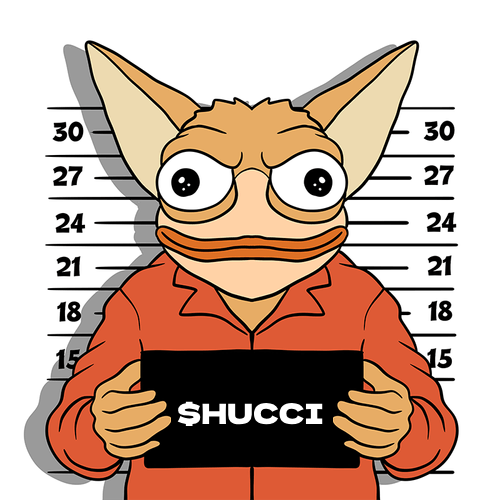
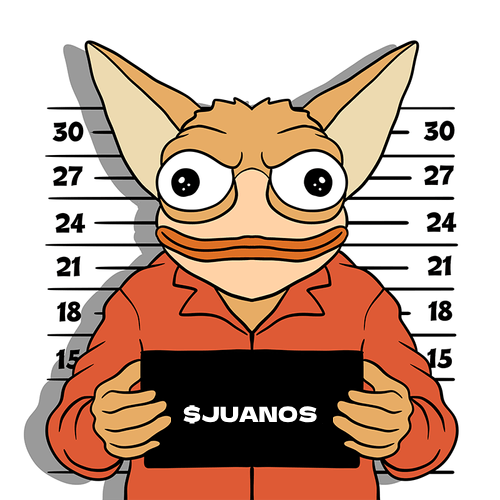
1

Changed region(s): [[0.36, 0.78, 0.66, 0.87]]

diff --git a/index.html b/index.html
@@ -2,9 +2,9 @@
 <html data-wf-page="6694e6c6ffe7ec007a5fe0f6" data-wf-site="6694e6c6ffe7ec007a5fe0e5">
 <head>
   <meta charset="utf-8">
-  <title>HUCCI</title>
+  <title>JUANOS</title>
   <meta content="width=device-width, initial-scale=1" name="viewport">
-  <meta content="HUCCI" name="$HUCCI">
+  <meta content="JUANOS" name="$JUANOS">
   <link href="css/normalize.css" rel="stylesheet" type="text/css">
   <link href="css/fenn.css" rel="stylesheet" type="text/css">
   <link href="css/fennsol.css" rel="stylesheet" type="text/css">
@@ -20,7 +20,7 @@
   <source src="music.mp3" type="audio/mpeg">
 </audio>
   <div class="section_welcome">
-    <div data-w-id="d09afd53-cc98-39b9-e454-fb562317df2b" style="opacity:0" class="title">$HUCCI</div>
+    <div data-w-id="d09afd53-cc98-39b9-e454-fb562317df2b" style="opacity:0" class="title">$JUANOS</div>
     <a data-w-id="685761e2-9dc5-6162-ecdc-14ebf643b7cd" style="opacity:0" href="#" class="continue w-button">CONTINUE</a>
   </div>
   <div class="w-embed">
@@ -32,21 +32,21 @@ html, body {
   </div>
   <div class="header">
     <div class="menu">
-      <a href="https://pump.fun/7D5g6LnoYRQyVCYaaBDYeJZ9vgaMR78Rw1yGz8nsump" class="button_buy w-button">BUY $HUCCI</a>
+      <a href="https://pump.fun/_TBA" class="button_buy w-button">BUY $JUANOS</a>
     </div>
     <div class="menu_right">
       <div class="menu_buttons">
         <a href="#story" class="menu_link w-button">STORY</a>
         <a href="#tokenomics" class="menu_link w-button">TOKENOMICS</a>
         <a href="#join" class="menu_link w-button">JOIN</a>
-        <a href="https://jup.ag/swap/SOL-7D5g6LnoYRQyVCYaaBDYeJZ9vgaMR78Rw1yGz8nsump" class="menu_link w-button">JUPITER</a>
+        <a href="https://jup.ag/swap/SOL-_TBA" class="menu_link w-button">JUPITER</a>
       </div>
-      <a href="https://t.me/huccisolana" class="tg w-button"></a>
-      <a href="https://x.com/huccisolana" class="x w-button"></a>
+      <a href="https://t.me/juanoscoin" class="tg w-button"></a>
+      <a href="https://x.com/juanoscoin" class="x w-button"></a>
     </div>
   </div>
   <div class="wrapper">
-    <div class="section_hero"> <img src="./images/cloud_hero_blue.svg" loading="lazy" alt="" class="clouds_hero_blue"><img src="./images/clouds_hero_white.svg" loading="lazy" style="-webkit-transform:translate3d(-89vw, 0, 0) scale3d(1, 1, 1) rotateX(0) rotateY(0) rotateZ(0) skew(0, 0);-moz-transform:translate3d(-89vw, 0, 0) scale3d(1, 1, 1) rotateX(0) rotateY(0) rotateZ(0) skew(0, 0);-ms-transform:translate3d(-89vw, 0, 0) scale3d(1, 1, 1) rotateX(0) rotateY(0) rotateZ(0) skew(0, 0);transform:translate3d(-89vw, 0, 0) scale3d(1, 1, 1) rotateX(0) rotateY(0) rotateZ(0) skew(0, 0)" data-w-id="59f95f3e-db18-afbe-428f-cf73599fe10e" alt="" class="clouds_hero_white">   <div style="" class="logo-title">HUCCI</div>                   <img src="./images/palm.svg" loading="lazy" style="-webkit-transform:translate3d(-33vw, 0, 0) scale3d(1, 1, 1) rotateX(0) rotateY(0) rotateZ(0) skew(0, 0);-moz-transform:translate3d(-33vw, 0, 0) scale3d(1, 1, 1) rotateX(0) rotateY(0) rotateZ(0) skew(0, 0);-ms-transform:translate3d(-33vw, 0, 0) scale3d(1, 1, 1) rotateX(0) rotateY(0) rotateZ(0) skew(0, 0);transform:translate3d(-33vw, 0, 0) scale3d(1, 1, 1) rotateX(0) rotateY(0) rotateZ(0) skew(0, 0)" data-w-id="b00e3dc6-1b1d-6a6d-198b-9bd509bbb92a" alt="" class="palm_hero">
+    <div class="section_hero"> <img src="./images/cloud_hero_blue.svg" loading="lazy" alt="" class="clouds_hero_blue"><img src="./images/clouds_hero_white.svg" loading="lazy" style="-webkit-transform:translate3d(-89vw, 0, 0) scale3d(1, 1, 1) rotateX(0) rotateY(0) rotateZ(0) skew(0, 0);-moz-transform:translate3d(-89vw, 0, 0) scale3d(1, 1, 1) rotateX(0) rotateY(0) rotateZ(0) skew(0, 0);-ms-transform:translate3d(-89vw, 0, 0) scale3d(1, 1, 1) rotateX(0) rotateY(0) rotateZ(0) skew(0, 0);transform:translate3d(-89vw, 0, 0) scale3d(1, 1, 1) rotateX(0) rotateY(0) rotateZ(0) skew(0, 0)" data-w-id="59f95f3e-db18-afbe-428f-cf73599fe10e" alt="" class="clouds_hero_white">   <div style="" class="logo-title">JUANOS</div>                   <img src="./images/palm.svg" loading="lazy" style="-webkit-transform:translate3d(-33vw, 0, 0) scale3d(1, 1, 1) rotateX(0) rotateY(0) rotateZ(0) skew(0, 0);-moz-transform:translate3d(-33vw, 0, 0) scale3d(1, 1, 1) rotateX(0) rotateY(0) rotateZ(0) skew(0, 0);-ms-transform:translate3d(-33vw, 0, 0) scale3d(1, 1, 1) rotateX(0) rotateY(0) rotateZ(0) skew(0, 0);transform:translate3d(-33vw, 0, 0) scale3d(1, 1, 1) rotateX(0) rotateY(0) rotateZ(0) skew(0, 0)" data-w-id="b00e3dc6-1b1d-6a6d-198b-9bd509bbb92a" alt="" class="palm_hero">
       <div data-w-id="4e548cfb-595a-bee4-878a-53ce60c61281" style="-webkit-transform:translate3d(-100vw, 0, 0) scale3d(1, 1, 1) rotateX(0) rotateY(0) rotateZ(0) skew(0, 0);-moz-transform:translate3d(-100vw, 0, 0) scale3d(1, 1, 1) rotateX(0) rotateY(0) rotateZ(0) skew(0, 0);-ms-transform:translate3d(-100vw, 0, 0) scale3d(1, 1, 1) rotateX(0) rotateY(0) rotateZ(0) skew(0, 0);transform:translate3d(-100vw, 0, 0) scale3d(1, 1, 1) rotateX(0) rotateY(0) rotateZ(0) skew(0, 0)" class="hero_ground">
         <div class="ground_hider"></div>
         <div class="h_ground">
@@ -88,11 +88,11 @@ html, body {
         <div data-w-id="93d8973c-4341-aee1-62be-d0794ab1f487" style="opacity:1" class="flash_right"></div>
       </div>
       <div class="h1">YOU GET<br>3 LIVES</div>
-      <div class="h2">HUCCI TOKENOMICS EXPOSED!</div><img src="https://hucci.wtf/images/jail_chara-p-500.png" loading="lazy" sizes="(max-width: 479px) 100vw, (max-width: 767px) 83vw, 500px" srcset="./images/jail_chara-p-500.png 500w, https://hucci.wtf/images/jail_chara-p-500.png 800w" alt="" class="chara_jail">
+      <div class="h2">JUANOS TOKENOMICS EXPOSED!</div><img src="https://juanos.wtf/images/jail_chara-p-500.png" loading="lazy" sizes="(max-width: 479px) 100vw, (max-width: 767px) 83vw, 500px" srcset="./images/jail_chara-p-500.png 500w, https://juanos.wtf/images/jail_chara-p-500.png 800w" alt="" class="chara_jail">
       <div class="block_tokenomics">
         <div class="tokenomics_in">
           <div class="tokenomics_details">
-            <div class="tokenomics_title">TOTAL SUPPLY: 1 BILLION $HUCCI</div>
+            <div class="tokenomics_title">TOTAL SUPPLY: 1 BILLION $JUANOS</div>
           </div>
           <div class="tokenomics_details">
             <div class="tokenomics_title">MINT REVOKED</div>
@@ -104,35 +104,35 @@ html, body {
             <div class="tokenomics_title">tax 0%</div>
           </div>
           <div class="tokenomics_details">
-            <div class="ca">7D5g6LnoYRQyVCYaaBDYeJZ9vgaMR78Rw1yGz8nsump</div>
+            <div class="ca">_TBA</div>
           </div>
         </div>
       </div>
     </div>
     <div class="transition_05"></div>
-    <div class="scene_trader"><img src="https://hucci.wtf/images/trader_chara-p-500.png" loading="lazy" data-w-id="60299c3c-3803-76a7-14ad-b3bd10fb2650" sizes="(max-width: 479px) 95vw, (max-width: 767px) 74vw, 441.2375183105469px" alt="" srcset="https://hucci.wtf/images/trader_chara-p-500.png 500w, https://hucci.wtf/images/trader_chara-p-500.png 796w" class="chara_trader">
+    <div class="scene_trader"><img src="https://juanos.wtf/images/trader_chara-p-500.png" loading="lazy" data-w-id="60299c3c-3803-76a7-14ad-b3bd10fb2650" sizes="(max-width: 479px) 95vw, (max-width: 767px) 74vw, 441.2375183105469px" alt="" srcset="https://juanos.wtf/images/trader_chara-p-500.png 500w, https://juanos.wtf/images/trader_chara-p-500.png 796w" class="chara_trader">
       <div class="h1">FROM lock <br>TO STOCK</div>
-      <div class="h2">HUCCI&#x27;S TRADING COMEBACK</div><img src="https://hucci.wtf/images/trader_screens-p-800.png" loading="lazy" sizes="(max-width: 479px) 95vw, (max-width: 767px) 86vw, 658.3250122070312px" srcset="https://hucci.wtf/images/trader_screens-p-800.png 500w, https://hucci.wtf/images/trader_screens-p-800.png 800w, https://hucci.wtf/images/trader_screens-p-800.png 948w" alt="" class="image-2">
+      <div class="h2">JUANOS&#x27;S TRADING COMEBACK</div><img src="https://juanos.wtf/images/trader_screens-p-800.png" loading="lazy" sizes="(max-width: 479px) 95vw, (max-width: 767px) 86vw, 658.3250122070312px" srcset="https://juanos.wtf/images/trader_screens-p-800.png 500w, https://juanos.wtf/images/trader_screens-p-800.png 800w, https://juanos.wtf/images/trader_screens-p-800.png 948w" alt="" class="image-2">
       <div class="trader_desk"></div>
       <div class="trader_floor"></div>
     </div>
     <div class="transition_06"></div>
   </div>
-  <div id="join" class="scene_final"><img src="https://hucci.wtf/images/chara_fly-p-500.png" loading="lazy" data-w-id="385c3d93-8ce6-f0aa-9207-7ce2380d5815" sizes="(max-width: 479px) 100vw, 400px" alt="" srcset="https://hucci.wtf/images/chara_fly-p-500.png 500w, https://hucci.wtf/images/chara_fly-p-500.png 600w" class="fly">
+  <div id="join" class="scene_final"><img src="https://juanos.wtf/images/chara_fly-p-500.png" loading="lazy" data-w-id="385c3d93-8ce6-f0aa-9207-7ce2380d5815" sizes="(max-width: 479px) 100vw, 400px" alt="" srcset="https://juanos.wtf/images/chara_fly-p-500.png 500w, https://juanos.wtf/images/chara_fly-p-500.png 600w" class="fly">
     <div class="coins_hider"></div>
     <div class="scene_rich">
       <div data-w-id="8ccefe30-c57a-9065-ecd9-a1f2992750d0" class="vegas_bg"></div>
       <div data-w-id="527c41bc-d6f5-007f-27cf-0eacd19559df" style="color:rgb(217,8,0)" class="h1 vegastitle">THE WORLD<br>IS YOURS</div>
-      <div class="h2 h2_vegas">HUCCI&#x27;S DEGEN EMPIRE</div>
+      <div class="h2 h2_vegas">JUANOS&#x27;S DEGEN EMPIRE</div>
       <div class="rich_pic"><img src="./images/shine.gif" loading="lazy" alt="" class="shiny"></div><img src="./images/rich_smoking_chara.png" loading="lazy" sizes="(max-width: 479px) 185.8249969482422px, (max-width: 767px) 39vw, (max-width: 991px) 38vw, 371.6499938964844px" srcset="./images/rich_smoking_chara-p-500.png 500w, images/rich_smoking_chara.png 800w" alt="" class="rich_chara_smoke"><img src="./images/rich_chara.png" loading="lazy" sizes="(max-width: 479px) 100vw, (max-width: 767px) 69vw, (max-width: 991px) 58vw, 554.7750244140625px" srcset="./images/rich_chara-p-500.png 500w, images/rich_chara.png 800w" alt="" class="rich_chara_middle"><img src="./images/rich_chara_heart.png" loading="lazy" sizes="(max-width: 479px) 154.25px, (max-width: 767px) 32vw, (max-width: 991px) 31vw, 308.5px" srcset="./images/rich_chara_heart-p-500.png 500w, images/rich_chara_heart.png 617w" alt="" class="rich_chara_heart">
     </div>
     <div class="footer">
       <div class="footer_socials">
-        <a href="https://t.me/huccisolana" class="footer_button w-button">TELEGRAM</a>
-        <a href="https://pump.fun/7D5g6LnoYRQyVCYaaBDYeJZ9vgaMR78Rw1yGz8nsump" class="footer_button w-button">PUMP.FUN</a>
-        <a href="https://x.com/huccisolana" class="footer_button w-button">x</a>
+        <a href="https://t.me/juanoscoin" class="footer_button w-button">TELEGRAM</a>
+        <a href="https://pump.fun/_TBA" class="footer_button w-button">PUMP.FUN</a>
+        <a href="https://x.com/juanoscoin" class="footer_button w-button">x</a>
       </div>
-      <div class="email">huccisupport@gmail.com</div>
+      <div class="email">juanossupport@gmail.com</div>
     </div>
   </div>
   <script src="https://d3e54v103j8qbb.cloudfront.net/js/jquery-3.5.1.min.dc5e7f18c8.js?site=6694e6c6ffe7ec007a5fe0e5" type="text/javascript" integrity="sha256-9/aliU8dGd2tb6OSsuzixeV4y/faTqgFtohetphbbj0=" crossorigin="anonymous"></script>

diff --git a/css/fennsol.css b/css/fennsol.css
@@ -553,7 +553,7 @@
 }
 
 .rich_pic {
-  background-image: url('https://hucci.wtf/images/fear_img.png');
+  background-image: url('https://juanos.wtf/images/fear_img.png');
   background-position: 50%;
   background-size: cover;
   border: 7px solid #000;
